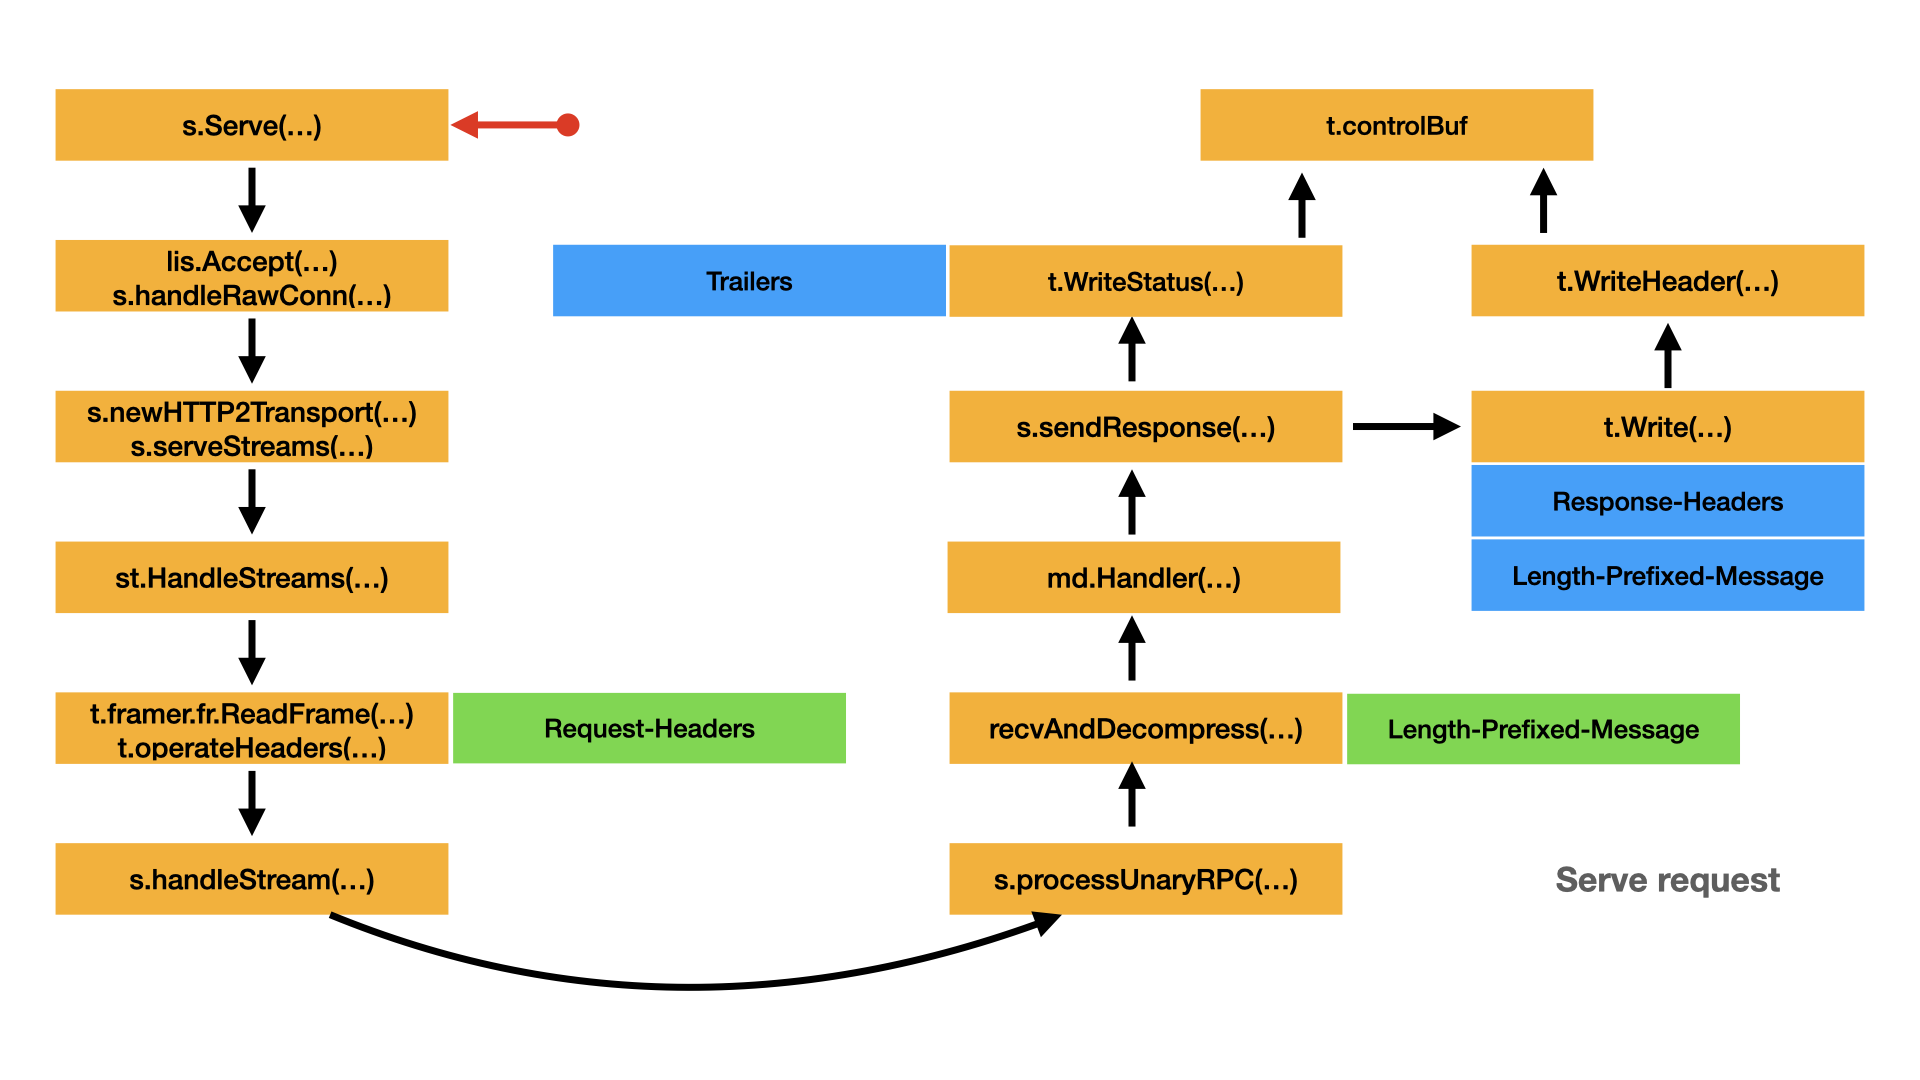
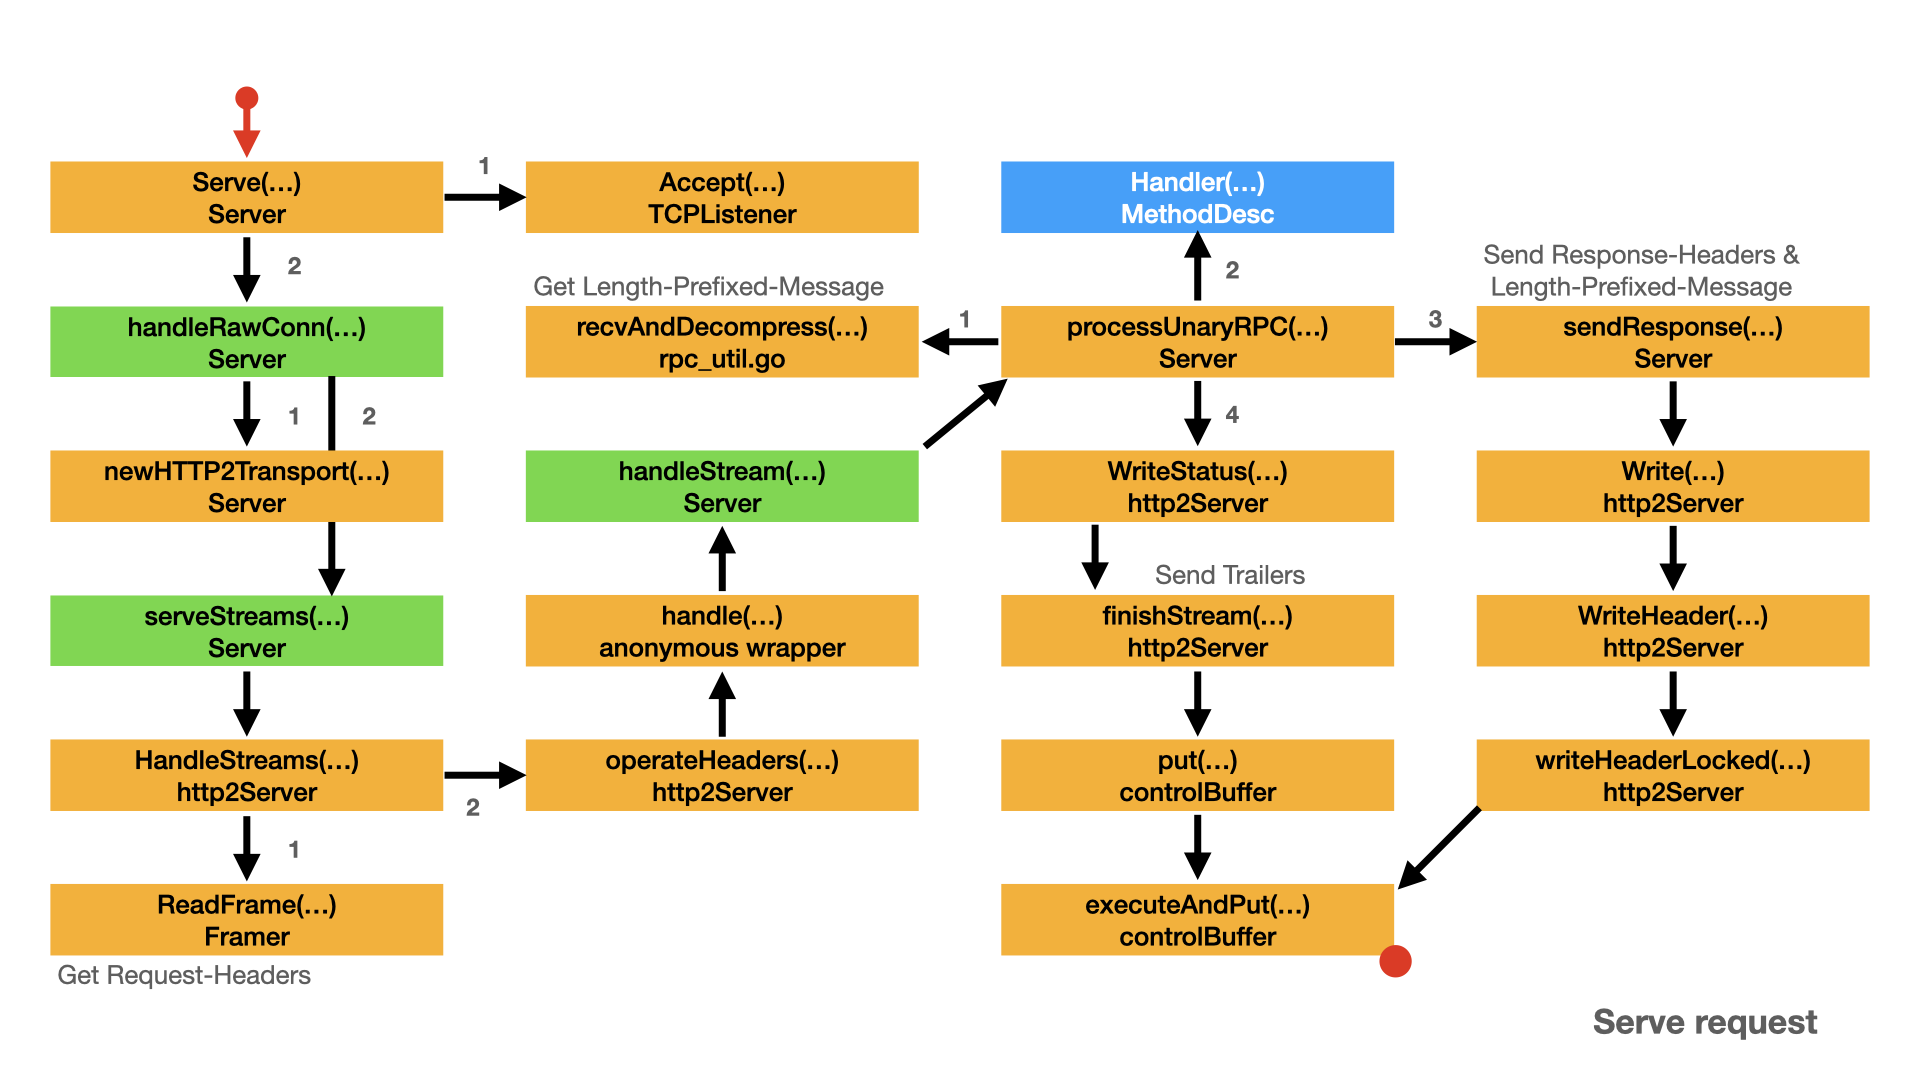
finish the rewrite of response.md and images.004.png

diff --git a/docs/response.md b/docs/response.md
@@ -12,7 +12,8 @@
   - [Process unary RPC](#process-unary-rpc)
   - [Receive method parameters](#receive-method-parameters)
   - [Invoke service method](#invoke-service-method)
-  - [Send response header](#send-response-header)
+  - [Send response header and data](#send-response-header-and-data)
+  - [Finish stream](#finish-stream)
 
 gRPC uses HTTP 2 frames to send request and process response. But how to do that exactly? Let's explain the detail of implementation of server side response. [gRPC over HTTP2](https://github.com/grpc/grpc/blob/master/doc/PROTOCOL-HTTP2.md) is a good start point to explain the design of gRPC over HTTP 2. In brief, the gRPC response is composited by three parts:
 
@@ -226,6 +227,7 @@ type Server struct {
 The following is the serve request sequence diagram.  It focus on the three parts: `Response-Headers`, `Length-Prefixed-Message` and `Trailers`.
 
 - Yellow box represents the important type and method/function.
+- Blue box represents a placeholder for the runtime type.
 - Arrow represents the call direction and order.
 - Right red dot means there is another map for that box.
 
@@ -1733,14 +1735,23 @@ type MethodDesc struct {
 }
 ```
 
-### Send response header
+### Send response header and data
 
-`processUnaryRPC()` calls `md.Handler()` to send the `Response-Headers` and `Length-Prefixed-Message` to client.
+`processUnaryRPC()` calls `s.sendResponse()` to send the `Response-Headers` and `Length-Prefixed-Message` to client.
 
-Finally return the decompressed payload byte slice.
-`sendResponse()` send the response to client. It first get the codec and encode (default protobuf) the response to byte slice, then it may compress the response payload and build the payload header.
-
-Finally call `t.Write()` to  write the `Response-Headers` and `Length-Prefixed-Message` to client. Both `writeHeaderLocked()` and `Write()` use `t.controlBuf` to write back to client. See [controlBuffer and loopy](control.md) for detail.
+- `s.sendResponse()` is `Server.sendResponse()`.
+- `Server.sendResponse()` accepts the `reply` message returned from the previous steps.
+- `Server.sendResponse()` encodes and compresses the reply message.
+- `Server.sendResponse()` calls `t.Write()` to send the reply message. `t.Write()` is actually `http2Server.Write()`.
+  - `http2Server.Write()` calls `t.WriteHeader()` to send the reply header. `t.WriteHeader()` is `http2Server.WriteHeader()`.
+    - `http2Server.WriteHeader()` calls `t.writeHeaderLocked()` to finish the job. `t.writeHeaderLocked()` is `http2Server.writeHeaderLocked()`.
+    - `http2Server.writeHeaderLocked()` fills `":status"` and `"content-type"` headers.
+    - `http2Server.writeHeaderLocked()` calls `t.controlBuf.executeAndPut()` to send the reply header.
+    - Here, `Response-Headers` is sent to client.
+  - `http2Server.Write()` creates `dataFrame` based on the reply message and sent it by calling `t.controlBuf.put()`.
+  - Here, `Length-Prefixed-Message` is sent to client.
+  
+For `t.controlBuf.executeAndPut()` and `t.controlBuf.put()`, please refer to  [controlBuffer and loopy](control.md) for detail.
 
 Here is the response example:
 
@@ -1758,18 +1769,20 @@ grpc-status = 0 # OK
 trace-proto-bin = jher831yy13JHy3hc
 ```
 
+Now, the response header and data frame has been sent to client. Next, let's discuss `t.WriteStatus()` in detail.
+
 ```go
-func (s *Server) sendResponse(t transport.ServerTransport, stream *transport.Stream, msg interface{}, cp Compressor, opts *transport.Options, comp encoding.Compress  or) error {                                                       
+func (s *Server) sendResponse(t transport.ServerTransport, stream *transport.Stream, msg interface{}, cp Compressor, opts *transport.Options, comp encoding.Compressor) error {
     data, err := encode(s.getCodec(stream.ContentSubtype()), msg)
     if err != nil {
         channelz.Error(logger, s.channelzID, "grpc: server failed to encode response: ", err)
-        return err                                                      
-    }                                                                      
+        return err
+    }
     compData, err := compress(data, cp, comp)
     if err != nil {
         channelz.Error(logger, s.channelzID, "grpc: server failed to compress response: ", err)
-        return err    
-    }                                           
+        return err
+    }
     hdr, payload := msgHeader(data, compData)
     // TODO(dfawley): should we be checking len(data) instead?
     if len(payload) > s.opts.maxSendMessageSize {
@@ -1778,11 +1791,10 @@ func (s *Server) sendResponse(t transport.ServerTransport, stream *transport.Str
     err = t.Write(stream, hdr, payload, opts)
     if err == nil && s.opts.statsHandler != nil {
         s.opts.statsHandler.HandleRPC(stream.Context(), outPayload(false, msg, data, payload, time.Now()))
-    }                                                                         
-    return err                                    
+    }
+    return err
 }
 
-...
 // Write converts the data into HTTP2 data frame and sends it out. Non-nil error
 // is returns if it fails (e.g., framing error, transport error).
 func (t *http2Server) Write(s *Stream, hdr []byte, data []byte, opts *Options) error {
@@ -1790,24 +1802,24 @@ func (t *http2Server) Write(s *Stream, hdr []byte, data []byte, opts *Options) e
         if err := t.WriteHeader(s, nil); err != nil {
             if _, ok := err.(ConnectionError); ok {
                 return err
-            }                                            
+            }
             // TODO(mmukhi, dfawley): Make sure this is the right code to return.
             return status.Errorf(codes.Internal, "transport: %v", err)
-        }                                                              
-    } else {                                                                      
-        // Writing headers checks for this condition.              
+        }
+    } else {
+        // Writing headers checks for this condition.
         if s.getState() == streamDone {
-            // TODO(mmukhi, dfawley): Should the server write also return io.EOF?   
-            s.cancel()                                                          
-            select {                                                           
-            case <-t.done:                                                                                 
-                return ErrConnClosing                                          
-            default:                                                                                             
-            }                                                                            
-            return ContextErr(s.ctx.Err())                                                                                     
-        }        
-    }                                                                                                                            
-    df := &dataFrame{                                                               
+            // TODO(mmukhi, dfawley): Should the server write also return io.EOF?
+            s.cancel()
+            select {
+            case <-t.done:
+                return ErrConnClosing
+            default:
+            }
+            return ContextErr(s.ctx.Err())
+        }
+    }
+    df := &dataFrame{
         streamID:    s.id,
         h:           hdr,
         d:           data,
@@ -1824,27 +1836,26 @@ func (t *http2Server) Write(s *Stream, hdr []byte, data []byte, opts *Options) e
     return t.controlBuf.put(df)
 }
 
-...
-// WriteHeader sends the header metadata md back to the client.                                                  
-func (t *http2Server) WriteHeader(s *Stream, md metadata.MD) error {                     
-    if s.updateHeaderSent() || s.getState() == streamDone {                                                                    
+// WriteHeader sends the header metadata md back to the client.
+func (t *http2Server) WriteHeader(s *Stream, md metadata.MD) error {
+    if s.updateHeaderSent() || s.getState() == streamDone {
         return ErrIllegalHeaderWrite
-    }                                                                                                                            
-    s.hdrMu.Lock()                                                                  
-    if md.Len() > 0 {     
+    }
+    s.hdrMu.Lock()
+    if md.Len() > 0 {
         if s.header.Len() > 0 {
             s.header = metadata.Join(s.header, md)
-        } else {                           
+        } else {
             s.header = md
-        }                                                        
-    }           
+        }
+    }
     if err := t.writeHeaderLocked(s); err != nil {
-        s.hdrMu.Unlock()         
+        s.hdrMu.Unlock()
         return err
-    }    
-    s.hdrMu.Unlock()                  
+    }
+    s.hdrMu.Unlock()
     return nil
-}          
+}
 
 func (t *http2Server) writeHeaderLocked(s *Stream) error {
     // TODO(mmukhi): Benchmark if the performance gets better if count the metadata and other header fields
@@ -1882,11 +1893,22 @@ func (t *http2Server) writeHeaderLocked(s *Stream) error {
 }
 ```
 
+### Finish stream
+
+`processUnaryRPC()` calls `t.WriteStatus()` send the trailer to end the stream.
+
+- `t.WriteStatus()` is actually `http2Server.WriteStatus()`.
+- `http2Server.WriteStatus()` adds headers: `"grpc-status"` and `"grpc-message"` to create `trailingHeader`.
+- `http2Server.WriteStatus()` checks the size of `trailingHeader`.
+  - Please note `t.controlBuf.execute(t.checkForHeaderListSize, trailingHeader)` only runs `t.checkForHeaderListSize`.
+- `http2Server.WriteStatus()` calls `t.finishStream()` to send the `trailingHeader`.
+  - `t.finishStream()` is actually `http2Server.finishStream()`.
+  - `http2Server.finishStream()` builds the `cleanupStream` and calls `t.controlBuf.put()` to send it to client.
+  - Here, the `Trailers` is sent.
+
 `t.WriteStatus()` is the last one to be called in `processUnaryRPC()`. It job is sending stream status to the client and terminates the stream.
 
-`t.Write()` build the header fields and trailer header frame and send it back with `t.controlBuf`. Then call `t.finishStream()` to end the stream. `t.finishStream()` also use `t.controlBuf` to write back to client. See [controlBuffer and loopy](control.md) for detail.
-
-Now the `Trailers` is sent.
+For `t.controlBuf.executeAndPut()` and `t.controlBuf.put()`, please refer to  [controlBuffer and loopy](control.md) for detail.
 
 ```go
 // WriteStatus sends stream status to the client and terminates the stream.
@@ -1908,17 +1930,17 @@ func (t *http2Server) WriteStatus(s *Stream, st *status.Status) error {
                 return err
             }
         } else { // Send a trailer only response.
-            headerFields = append(headerFields, hpack.HeaderField{Name: ":status", Value: "200"})                                      
+            headerFields = append(headerFields, hpack.HeaderField{Name: ":status", Value: "200"})
             headerFields = append(headerFields, hpack.HeaderField{Name: "content-type", Value: grpcutil.ContentType(s.contentSubtype)})
         }
     }
-    headerFields = append(headerFields, hpack.HeaderField{Name: "grpc-status", Value: strconv.Itoa(int(st.Code()))})    
+    headerFields = append(headerFields, hpack.HeaderField{Name: "grpc-status", Value: strconv.Itoa(int(st.Code()))})
     headerFields = append(headerFields, hpack.HeaderField{Name: "grpc-message", Value: encodeGrpcMessage(st.Message())})
 
     if p := st.Proto(); p != nil && len(p.Details) > 0 {
-        stBytes, err := proto.Marshal(p)                                      
-        if err != nil {                                                                    
-            // TODO: return error instead, when callers are able to handle it.                                                      
+        stBytes, err := proto.Marshal(p)
+        if err != nil {
+            // TODO: return error instead, when callers are able to handle it.
             logger.Errorf("transport: failed to marshal rpc status: %v, error: %v", p, err)
         } else {
             headerFields = append(headerFields, hpack.HeaderField{Name: "grpc-status-details-bin", Value: encodeBinHeader(stBytes)})
@@ -1954,23 +1976,23 @@ func (t *http2Server) WriteStatus(s *Stream, st *status.Status) error {
     }
     return nil
 }
+
 // finishStream closes the stream and puts the trailing headerFrame into controlbuf.
 func (t *http2Server) finishStream(s *Stream, rst bool, rstCode http2.ErrCode, hdr *headerFrame, eosReceived bool) {
-    oldState := s.swapState(streamDone)                                               
-    if oldState == streamDone {        
-        // If the stream was already done, return.               
-        return         
-    }                                                                                 
-                                           
-    hdr.cleanup = &cleanupStream{                        
-        streamID: s.id,               
+    oldState := s.swapState(streamDone)
+    if oldState == streamDone {
+        // If the stream was already done, return.
+        return
+    }
+
+    hdr.cleanup = &cleanupStream{
+        streamID: s.id,
         rst:      rst,
         rstCode:  rstCode,
         onWrite: func() {
             t.deleteStream(s, eosReceived)
         },
-    }                                                                           
-    t.controlBuf.put(hdr)                                        
-}                                                                                     
-
+    }
+    t.controlBuf.put(hdr)
+}
 ```
